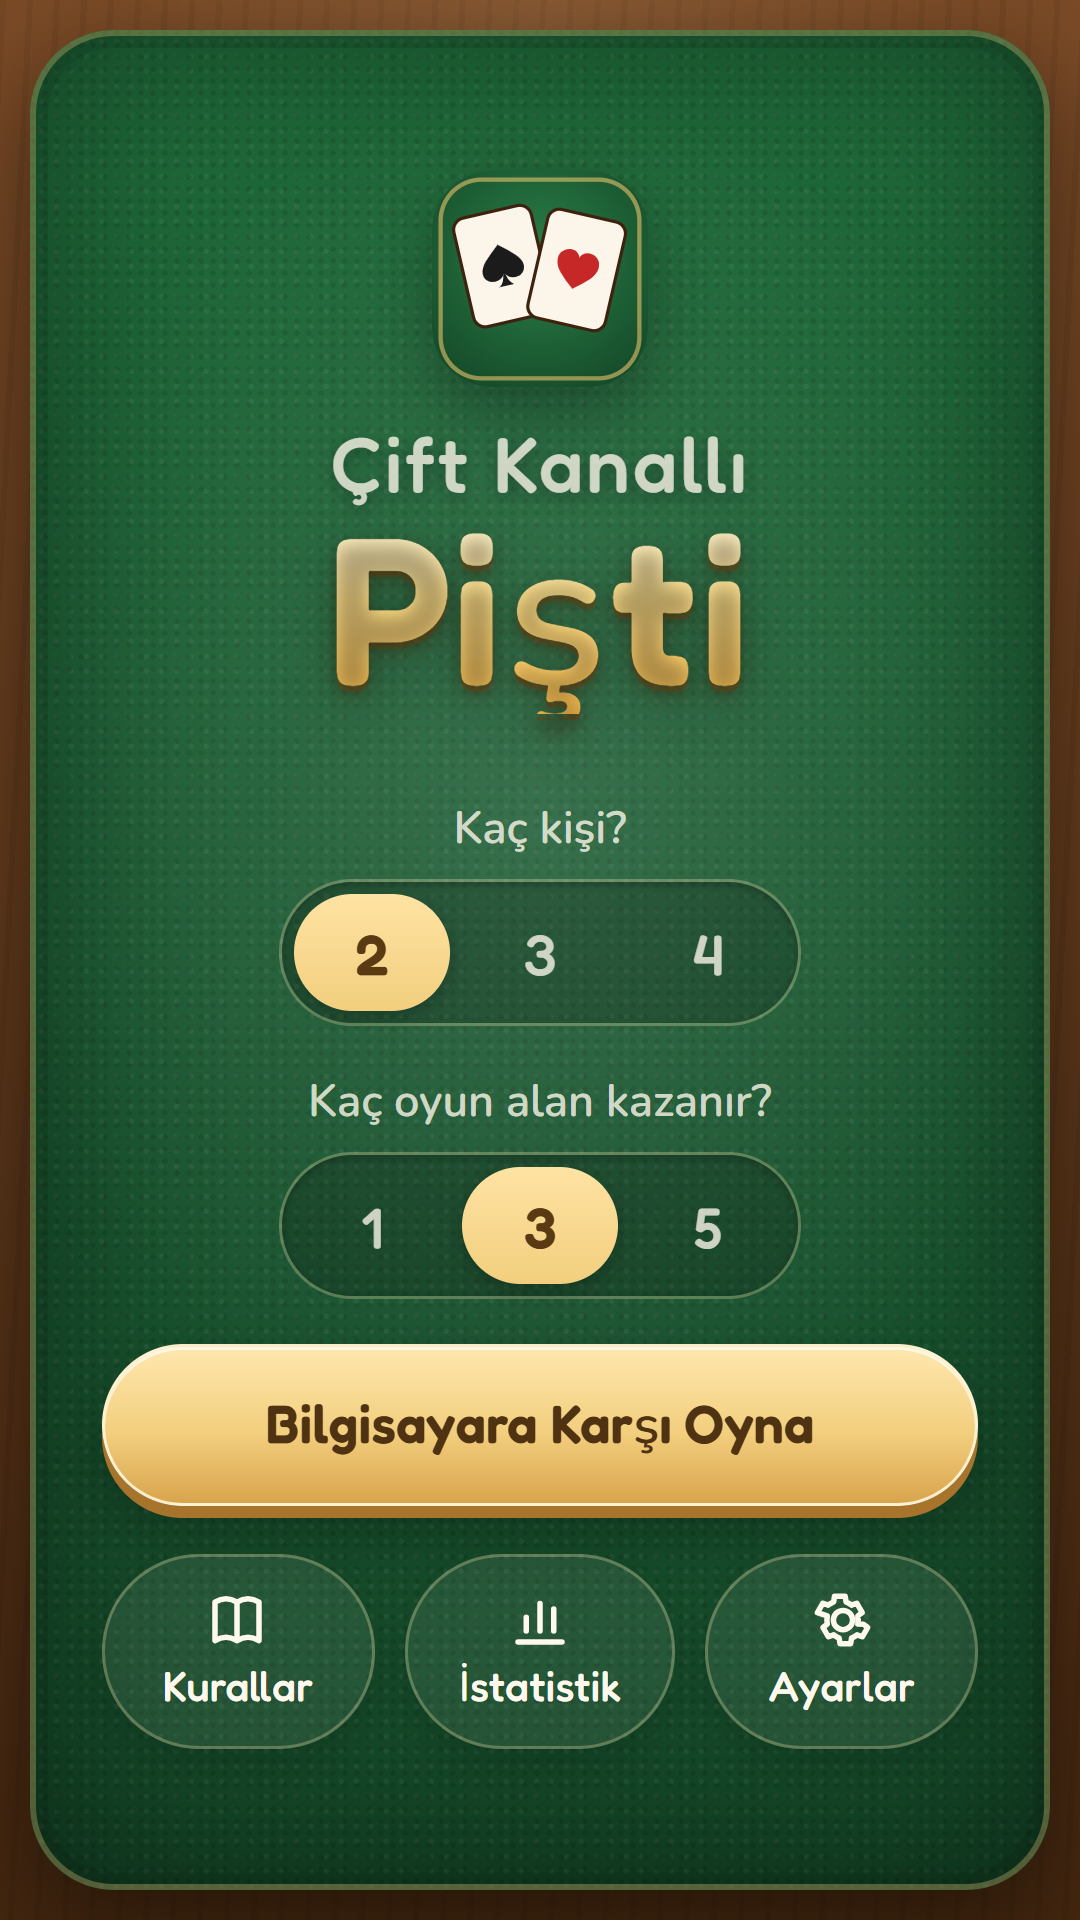
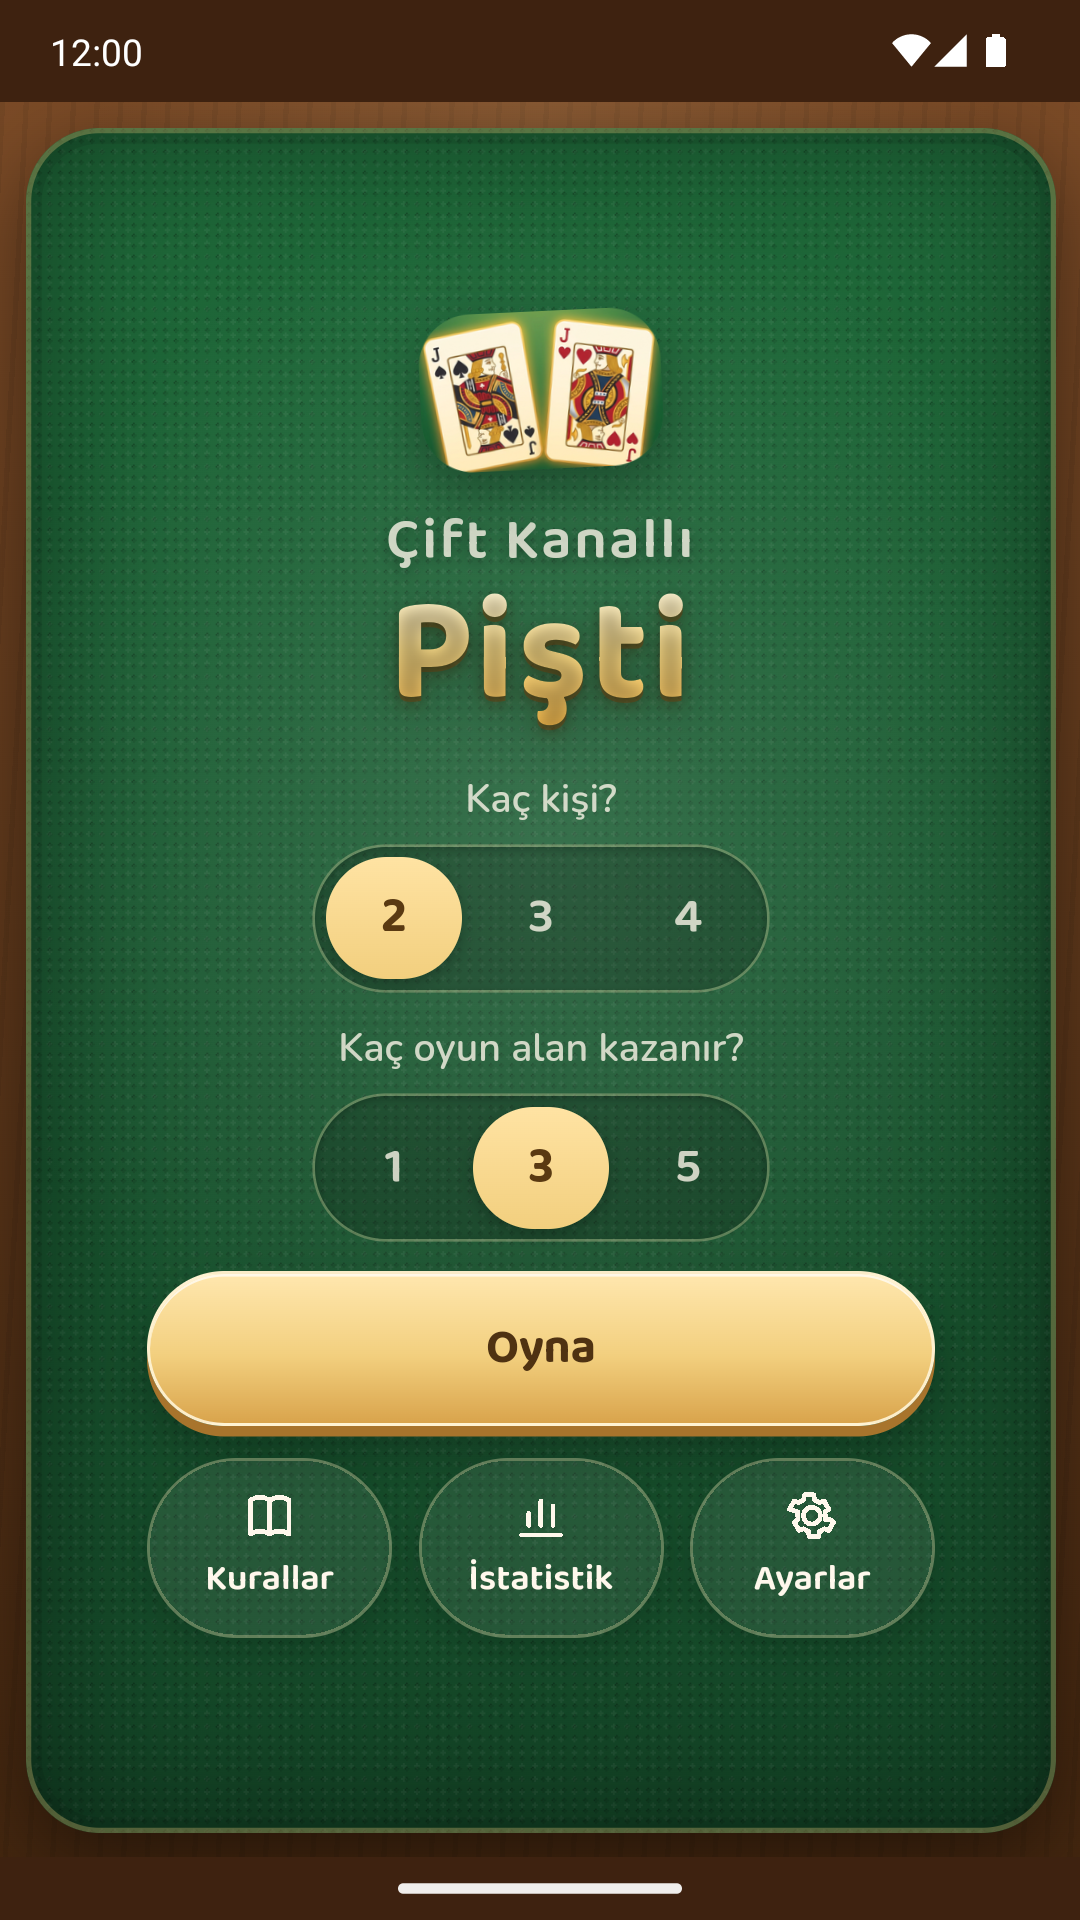
Play 1.0.6: kısa ekranda menü kaydırılır; yeni mağaza ekran görüntüleri

diff --git a/src/index.css b/src/index.css
@@ -109,9 +109,20 @@ button {
   display: flex;
   flex-direction: column;
   align-items: center;
-  justify-content: center;
   gap: 16px;
   padding: 24px;
+  overflow-y: auto;
+}
+
+/* Yer varsa ortalar, sığmazsa üstten başlayıp kaydırılır (içerik kesilmez) */
+.menu::before,
+.menu::after {
+  content: '';
+  margin-block: auto;
+}
+
+.menu > * {
+  flex-shrink: 0;
 }
 
 .menu-logo {
@@ -151,6 +162,25 @@ button {
   background-clip: text;
   color: transparent;
   filter: drop-shadow(0 2px 0 rgba(120, 70, 15, 0.55)) drop-shadow(0 6px 10px rgba(0, 0, 0, 0.22));
+}
+
+/* Kısa ekranlar: logo, başlık ve aralar küçülür */
+@media (max-height: 760px) {
+  .menu {
+    gap: 12px;
+    padding: 16px 24px;
+  }
+  .menu-logo {
+    width: 92px;
+    height: 60px;
+  }
+  .title {
+    margin-bottom: 4px;
+    font-size: 22px;
+  }
+  .title span {
+    font-size: 56px;
+  }
 }
 
 .menu-section {
@@ -1330,12 +1360,6 @@ button {
   margin: 24px auto 8px;
   font-size: 15px;
   opacity: 0.8;
-}
-
-/* Kısa ekranlarda menü kaydırılabilsin */
-.menu {
-  overflow-y: auto;
-  justify-content: safe center;
 }
 
 /* Seçilen kart yukarı kalkınca isim satırının üstüne binmesin */

diff --git a/DEGISIKLIKLER.md b/DEGISIKLIKLER.md
@@ -5,6 +5,12 @@ v1.4 ve sonrası Google Play'e yüklenir; önceki sürümler GitHub'da APK olara
 
 ---
 
+## Play 1.0.6 (2026-11-13)
+
+- Kısa ekranlı telefonlarda menü sığmıyorsa kaydırılır; logo ve düğmeler artık kesilmiyor, ezilmiyor
+- Kısa ekranlarda logo ve başlık biraz küçük
+- Mağaza ekran görüntüleri yeni görünümle yeniden çekildi
+
 ## Play 1.0.5 (2026-11-13)
 
 - Menüde yarım oyun varken ikinci düğme "Yeni Oyun"
